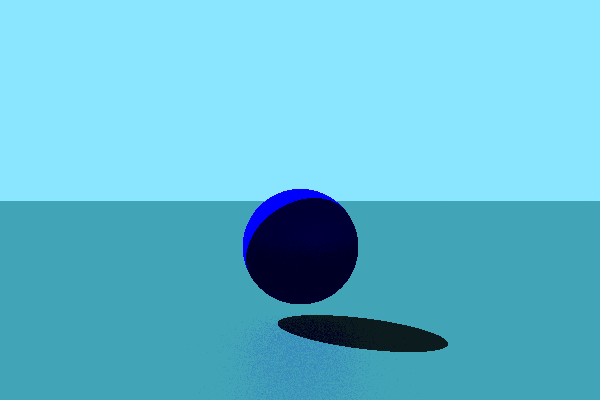
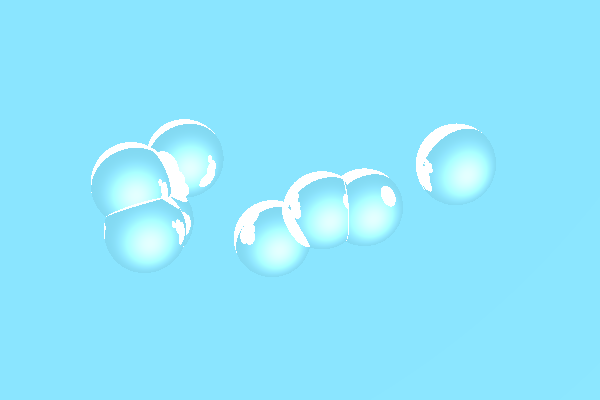
generalized rendering pipeline

diff --git a/rend.py b/rend.py
@@ -6,26 +6,70 @@ RESOLUTION = (600, 400)
 
 screenPixels = np.zeros((RESOLUTION[1],RESOLUTION[0], 3))
 
-
 #camera params
 FOV = 85 * np.pi / 180.0
 aspect = float(RESOLUTION[0])/float(RESOLUTION[1])
 cameraPosition = [0,0,0]
 
+############
+# Generic Classes to build renderables
+############
 
-def rayIntersectsSphere(ray, spherePos, sphereRadius, epsilon):
-	rad = (2 * np.dot(spherePos, ray)) ** 2 - 4*(np.dot(spherePos,spherePos) - sphereRadius * sphereRadius)
-	if rad < 0:
-		return -1
-	rad = np.sqrt(rad)
-	small = (2 * np.dot(spherePos, ray) - rad) / 2.0
-	if small >= epsilon:
-		return small
-	else:
-		return (2 * np.dot(spherePos, ray) + rad) / 2.0
+class Material:
+	surfaceSpecularity = 0.2
+	color = [1,1,1]
+	
+	def sampleTexture(self, u, v):
+		return self.color
 
+class Geom:
+	def hitsRay(self, ray, cameraPos):
+		return (-1, None)
 
-def castRay(position, ray, bounce, maxBounce = 4):
+class Light:
+	strength = 0.4
+	color = 0.4
+
+###########
+# Specific Renderables and Materials (maybe move to a different file later)
+###########
+
+class Plane(Geom):
+	def __init__(self, y):
+		self.y = y
+
+	def hitsRay(self, ray, cameraPos, epsilon):
+		intersectionNormal = None
+		if ray.dot([0,-1,0]) == 0:
+			intersectionDepth = -1
+		else:
+			intersectionDepth = (plane - cameraPos[1]) / ray[1]
+			intersectionNormal = np.array([0,-1.0,0])
+		return (intersectionDepth, intersectionNormal)
+
+class Sphere(Geom):
+	def __init__(self, spherePosition, sphereRadius):
+		self.spherePosition = spherePosition
+		self.sphereRadius = sphereRadius
+
+	def hitsRay(self, ray, cameraPos, epsilon):
+		spherePos = self.spherePosition - cameraPos
+		rad = (2 * np.dot(spherePos, ray)) ** 2 - 4*(np.dot(spherePos,spherePos) - self.sphereRadius * self.sphereRadius)
+		if rad < 0:
+			return (-1, None)
+		rad = np.sqrt(rad)
+		small = (2 * np.dot(spherePos, ray) - rad) / 2.0
+		if small >= epsilon:
+			intersectionNormal = (ray * small - spherePos)
+			intersectionNormal /= np.linalg.norm(intersectionNormal)
+			return (small, intersectionNormal)
+		else:
+			big = (2 * np.dot(spherePos, ray) + rad) / 2.0
+			intersectionNormal = (ray * big - spherePos)
+			intersectionNormal /= np.linalg.norm(intersectionNormal)
+			return (big, intersectionNormal)
+
+def castRay(world, position, ray, bounce, maxBounce = 4):
 	plane = 1
 	spherePos = [0,0.4,7]
 	sphereRadius = 0.5
@@ -38,30 +82,27 @@ def castRay(position, ray, bounce, maxBounce = 4):
 
 	epsilon = 0.01
 
-	surfaceSpecularity = 0.2
+
 	specularitySamples = 10
+
+
+	material = None
+
+
+	intersectionDepth = -1
 
 	intersectionNormal = None
 
-	#for now just check if the ray intersects the plane
-	if ray.dot([0,-1,0]) == 0:
-		intersectionDepth = -1
-	else:
-		intersectionDepth = (plane - position[1]) / ray[1]
-		intersectionNormal = np.array([0,-1.0,0])
-		color = [0.4,0.6,0.6]
+	#world contains a list of renderables 
+	#a renderable is a tuple composed of (geom, material)
 
-	#now check if the plane hits the sphere
-	#project point onto ray and check if sphere dist < r
-	candidateIntersectionDepth = rayIntersectsSphere(ray, np.array(spherePos) - np.array(position), sphereRadius, epsilon)
-	#if candidateIntersectionDepth < 2.6:
-	if (candidateIntersectionDepth < intersectionDepth or intersectionDepth < epsilon) and candidateIntersectionDepth > epsilon:
-		intersectionDepth = candidateIntersectionDepth
-		intersectionNormal = (ray * intersectionDepth - np.array(spherePos))
-		intersectionNormal /= np.linalg.norm(intersectionNormal)
-		#print intersectionNormal
-		color = [0,0,1]
-
+	for renderable in world:
+		geom, mat = renderable
+		candidateDepth, normal = geom.hitsRay(ray, position, epsilon)
+		if candidateDepth > epsilon and (candidateDepth < intersectionDepth or intersectionDepth < epsilon):
+			intersectionDepth = candidateDepth
+			intersectionNormal = normal
+			material = mat
 
 	if intersectionDepth < epsilon:
 		return sunColor * sunStrength * (np.dot(ray, sunDirection) / 2.0 + 0.5)**3 + skyColor
@@ -71,31 +112,61 @@ def castRay(position, ray, bounce, maxBounce = 4):
 		else:
 			if bounce > 0:
 				specularitySamples = 1
+			#To do actually add texturing functionality
+			color = mat.sampleTexture(0,0)
 			incomingColor = np.array([0.0,0.0,0.0])
 			for i in xrange(specularitySamples):
 				nNorm = intersectionNormal
 				if specularitySamples > 1:
-					mod = np.random.normal(0,0.1 * (1 - surfaceSpecularity)**2,3)
+					mod = np.random.normal(0,0.1 * (1 - mat.surfaceSpecularity)**2,3)
 					nNorm += mod
 					nNorm /= np.linalg.norm(nNorm)
 				newRayDirection = ray + 2 * np.dot(-ray, nNorm) * nNorm
 				newRayDirection /= np.linalg.norm(newRayDirection)
-				incomingColor += castRay(intersectionDepth * ray, newRayDirection, bounce + 1) / float(specularitySamples)
-			shadowColor = castRay(intersectionDepth * ray, -sunDirection, maxBounce)
+				incomingColor += castRay(world, intersectionDepth * ray, newRayDirection, bounce + 1) / float(specularitySamples)
+			shadowColor = castRay(world, intersectionDepth * ray, -sunDirection, maxBounce)
 			#shadowColor = 0
-			incomingColor = surfaceSpecularity * incomingColor
+			incomingColor = mat.surfaceSpecularity * incomingColor
 			return (incomingColor + shadowColor) * np.array(color)
-		#return -intersectionNormal
-		#return np.clip(intersectionDepth / 10.0, 0, 1)
 
-#cast the rays
+
+##########
+# Build the world!
+##########
+
+redMat = Material()
+redMat.color = [1,0.1,0.1]
+
+blueMat = Material()
+blueMat.color = [0.1,0.1,1]
+
+greenMat = Material()
+greenMat.color = [0.1,1,0.1]
+
+mirrorMat = Material()
+mirrorMat.color = [1,1,1]
+mirrorMat.surfaceSpecularity = 0.95
+
+materials = [redMat, blueMat, greenMat, mirrorMat]
+
+world = []
+
+for i in xrange(8):
+	world.append((Sphere((np.random.rand(3) - 0.5) * 2 + np.array([0,0,0]), 0.2), materials[i % 4]))
+	world[-1][0].spherePosition[1] = (np.random.rand() - 0.5) * 0.5
+	world[-1][0].spherePosition[2] = (np.random.rand() - 0.5) * 0.5 + 4
+	print world[-1][0].spherePosition
+
+##########
+# Cast the rays
+##########
 for xx in xrange(RESOLUTION[0]):
 	print xx
 	for yy in xrange(RESOLUTION[1]):
 		ray = np.array([np.tan((xx/float(RESOLUTION[0]) - 0.5) * FOV / 2.0), 
 			np.tan((yy/float(RESOLUTION[1]) - 0.5) * FOV / 2.0 * 1.0 / aspect), 1])
 		ray /= np.linalg.norm(ray)
-		screenPixels[yy, xx] = castRay(cameraPosition, ray, 0)
+		screenPixels[yy, xx] = castRay(world, cameraPosition, ray, 0)
 
 screenPixels = np.clip(screenPixels,0,1)
 screenPixels *= 255
